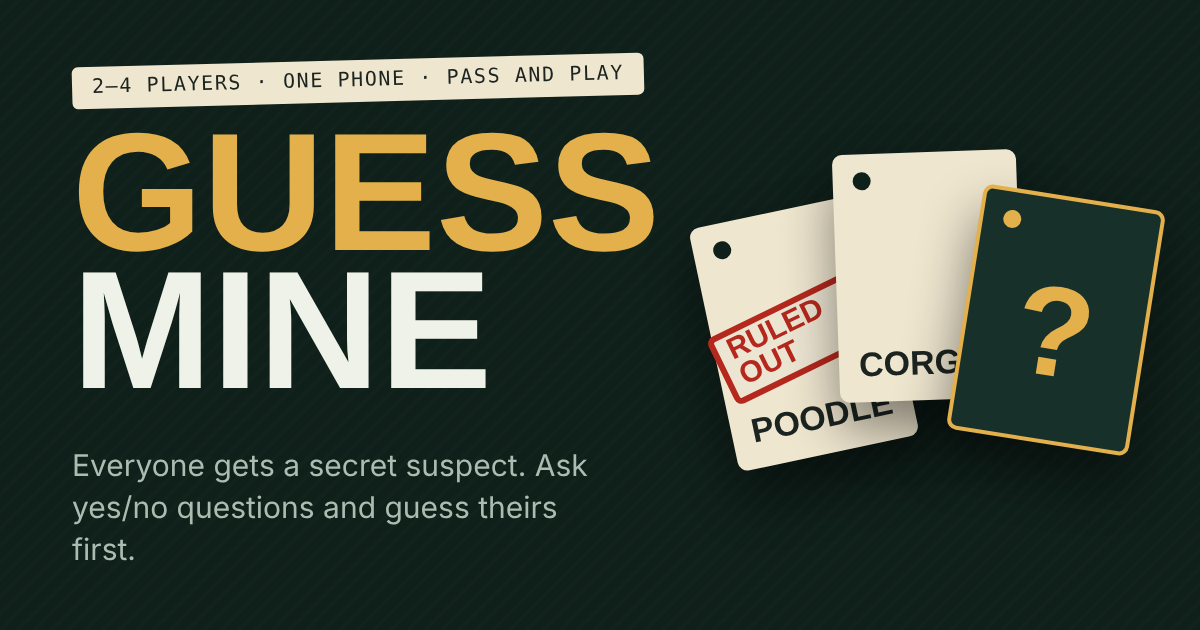
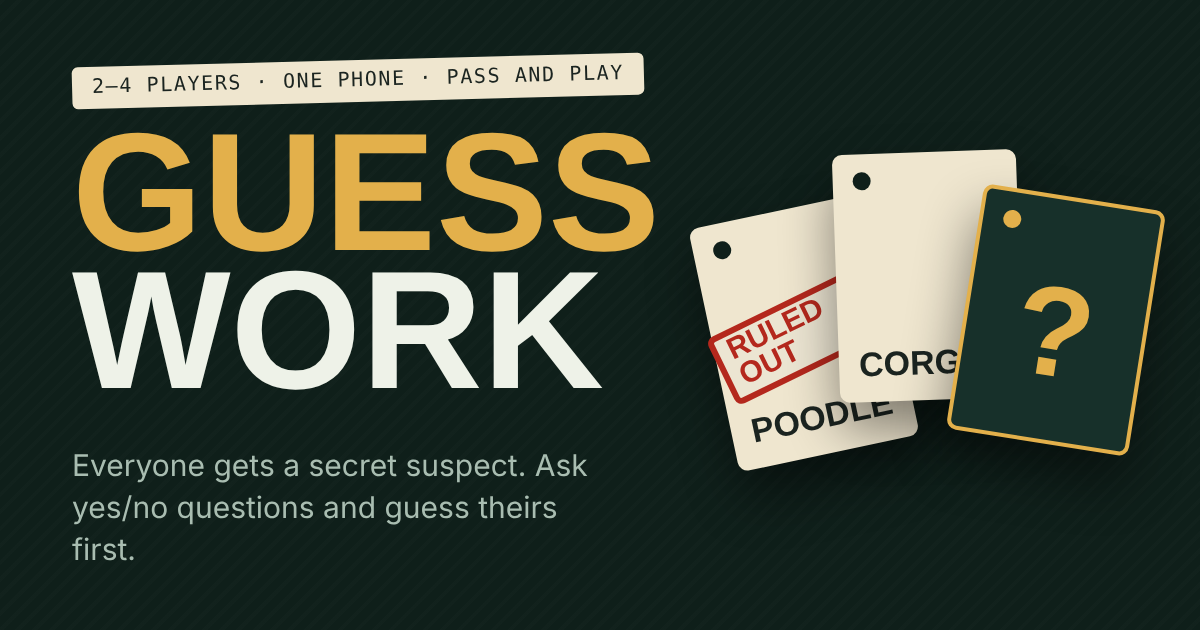
Rename to Guesswork: title, page titles, About/Privacy, share text, preview image
Claude-Session: https://claude.ai/code/session_01EvXaqUaPCLbBSDE12XEdJd

Changed region(s): [[0.0617, 0.4222, 0.4933, 0.6333]]

diff --git a/public/about.html b/public/about.html
@@ -5,8 +5,8 @@
 <meta name="viewport" content="width=device-width, initial-scale=1, viewport-fit=cover" />
 <meta name="color-scheme" content="dark" />
 <meta name="theme-color" content="#0f1f1a" />
-<title>About | Guess Mine</title>
-<meta name="description" content="Guess Mine is a free pass-and-play deduction game for 2–4 players on one phone." />
+<title>About | Guesswork</title>
+<meta name="description" content="Guesswork is a free pass-and-play deduction game for 2–4 players on one phone." />
 <link rel="canonical" href="https://category-game-woad.vercel.app/about" />
 <link rel="icon" type="image/svg+xml" href="/favicon.svg" />
 <style>
@@ -37,7 +37,7 @@ footer{margin-top:48px;padding-top:20px;border-top:1px solid var(--line);color:v
 <body>
 <main>
 <a class="back" href="/">&larr; Back to the game</a>
-<h1><span>Guess</span> Mine</h1>
+<h1><span>Guess</span>work</h1>
 <p class="lede">A free deduction game for 2–4 players. One phone, passed around the table. Work out your target's secret suspect before someone works out yours.</p>
 
 <h2>How to play</h2>
@@ -57,7 +57,7 @@ footer{margin-top:48px;padding-top:20px;border-top:1px solid var(--line);color:v
 <a class="cta" href="/">Play now</a>
 
 <h2>Names and trademarks</h2>
-<p>Guess Mine is an independent game. Names of people, characters, shows, games, cars, restaurants and other brands that appear in the lineups are used only to identify them and belong to their respective owners. This game is not affiliated with, sponsored by, or endorsed by any of them.</p>
+<p>Guesswork is an independent game. Names of people, characters, shows, games, cars, restaurants and other brands that appear in the lineups are used only to identify them and belong to their respective owners. This game is not affiliated with, sponsored by, or endorsed by any of them.</p>
 
 <h2>Privacy</h2>
 <p>Your game stays on your device. Read the <a href="/privacy">privacy page</a> for details.</p>

diff --git a/index.html b/index.html
@@ -7,21 +7,21 @@
     <meta name="theme-color" content="#0f1f1a" />
     <meta name="description" content="A pass-and-play deduction game for 2–4 players on one phone. Get dealt a suspect, ask yes/no questions, rule suspects out, and accuse first." />
     <meta property="og:type" content="website" />
-    <meta property="og:site_name" content="Guess Mine" />
-    <meta property="og:title" content="Guess Mine" />
+    <meta property="og:site_name" content="Guesswork" />
+    <meta property="og:title" content="Guesswork" />
     <meta property="og:description" content="2–4 players, one phone. Get dealt a suspect, ask yes/no questions, and accuse first." />
     <meta property="og:url" content="https://category-game-woad.vercel.app/" />
     <meta property="og:image" content="https://category-game-woad.vercel.app/og-image.png" />
     <meta property="og:image:width" content="1200" />
     <meta property="og:image:height" content="630" />
-    <meta property="og:image:alt" content="Guess Mine: the title over a fan of face-down suspect cards." />
+    <meta property="og:image:alt" content="Guesswork: the title over a fan of face-down suspect cards." />
     <meta name="twitter:card" content="summary_large_image" />
-    <meta name="twitter:title" content="Guess Mine" />
+    <meta name="twitter:title" content="Guesswork" />
     <meta name="twitter:description" content="2–4 players, one phone. Get dealt a suspect, ask yes/no questions, and accuse first." />
     <meta name="twitter:image" content="https://category-game-woad.vercel.app/og-image.png" />
     <link rel="canonical" href="https://category-game-woad.vercel.app/" />
     <link rel="icon" type="image/svg+xml" href="/favicon.svg" />
-    <title>Guess Mine</title>
+    <title>Guesswork</title>
   </head>
   <body>
     <div id="root"></div>

diff --git a/public/privacy.html b/public/privacy.html
@@ -5,8 +5,8 @@
 <meta name="viewport" content="width=device-width, initial-scale=1, viewport-fit=cover" />
 <meta name="color-scheme" content="dark" />
 <meta name="theme-color" content="#0f1f1a" />
-<title>Privacy | Guess Mine</title>
-<meta name="description" content="How Guess Mine handles your data: it collects no personal information." />
+<title>Privacy | Guesswork</title>
+<meta name="description" content="How Guesswork handles your data: it collects no personal information." />
 <link rel="canonical" href="https://category-game-woad.vercel.app/privacy" />
 <link rel="icon" type="image/svg+xml" href="/favicon.svg" />
 <style>
@@ -39,7 +39,7 @@ footer{margin-top:48px;padding-top:20px;border-top:1px solid var(--line);color:v
 <a class="back" href="/">&larr; Back to the game</a>
 <h1>Privacy</h1>
 <p class="updated">Last updated October 3, 2026</p>
-<p class="lede">Guess Mine has no accounts, no ads and no sign-up. It does not ask for or collect personal information.</p>
+<p class="lede">Guesswork has no accounts, no ads and no sign-up. It does not ask for or collect personal information.</p>
 
 <div class="card"><p><strong>The short version:</strong> your game stays on your phone. We only count anonymous visits to the site.</p></div>
 

diff --git a/src/components/Turn.jsx b/src/components/Turn.jsx
@@ -119,7 +119,7 @@ export default function Turn({ s, send }) {
     <div className={`p${p} ${guessing ? 'mode-guess' : ''}`}>
       <div className="turnbar" ref={barRef}>
         <div className="turnrow">
-          <h1 className="sr-only">Guess Mine, turn {s.turn}</h1>
+          <h1 className="sr-only">Guesswork, turn {s.turn}</h1>
           <h2>{nameOf(s, p)}</h2>
           <span className="meter">
             <b>{left}</b>

diff --git a/src/lib/share.js b/src/lib/share.js
@@ -1,7 +1,7 @@
 import { trackEvent } from './analytics.js';
 
-const TITLE = 'Guess Mine';
-const TEXT = '2–4 players, one phone. Can you guess mine?';
+const TITLE = 'Guesswork';
+const TEXT = '2–4 players, one phone. Can you guess my pick?';
 
 /** The link people receive. Uses whatever domain the game is served from, so it keeps
  *  working if the site moves. `ref=share` lets analytics tell shared visits apart. */

diff --git a/src/components/Setup.jsx b/src/components/Setup.jsx
@@ -26,7 +26,7 @@ export default function Setup({ s, send, onDeal }) {
         <span className="eyebrow">2–4 players · one phone · pass and play</span>
         <h1>
           <span>Guess</span>
-          <span>Mine</span>
+          <span>work</span>
         </h1>
         <p className="lede">
           Each of you is dealt a suspect from the same lineup. Ask yes/no questions,

diff --git a/src/App.jsx b/src/App.jsx
@@ -37,7 +37,7 @@ function init() {
 /** What a screen reader should hear when the screen changes. */
 function announcement(s) {
   switch (s.screen) {
-    case 'setup': return 'Guess Mine. Pick a lineup and play.';
+    case 'setup': return 'Guesswork. Pick a lineup and play.';
     case 'dealing': return 'Dealing suspects.';
     case 'reveal':
       return s.revealStep % 2 === 0

diff --git a/src/styles/app.css b/src/styles/app.css
@@ -1,4 +1,4 @@
-/* Guess Mine: night-desk theme, elevated.
+/* Guesswork: night-desk theme, elevated.
    Ported unchanged from the standalone build, then extended in extras.css. */
 /* Layout: single-column case file on a night-desk ground — sticky turn header, evidence-tag grid, thumb-zone action bar. Deliberately single-theme (dark). */
 :root{
